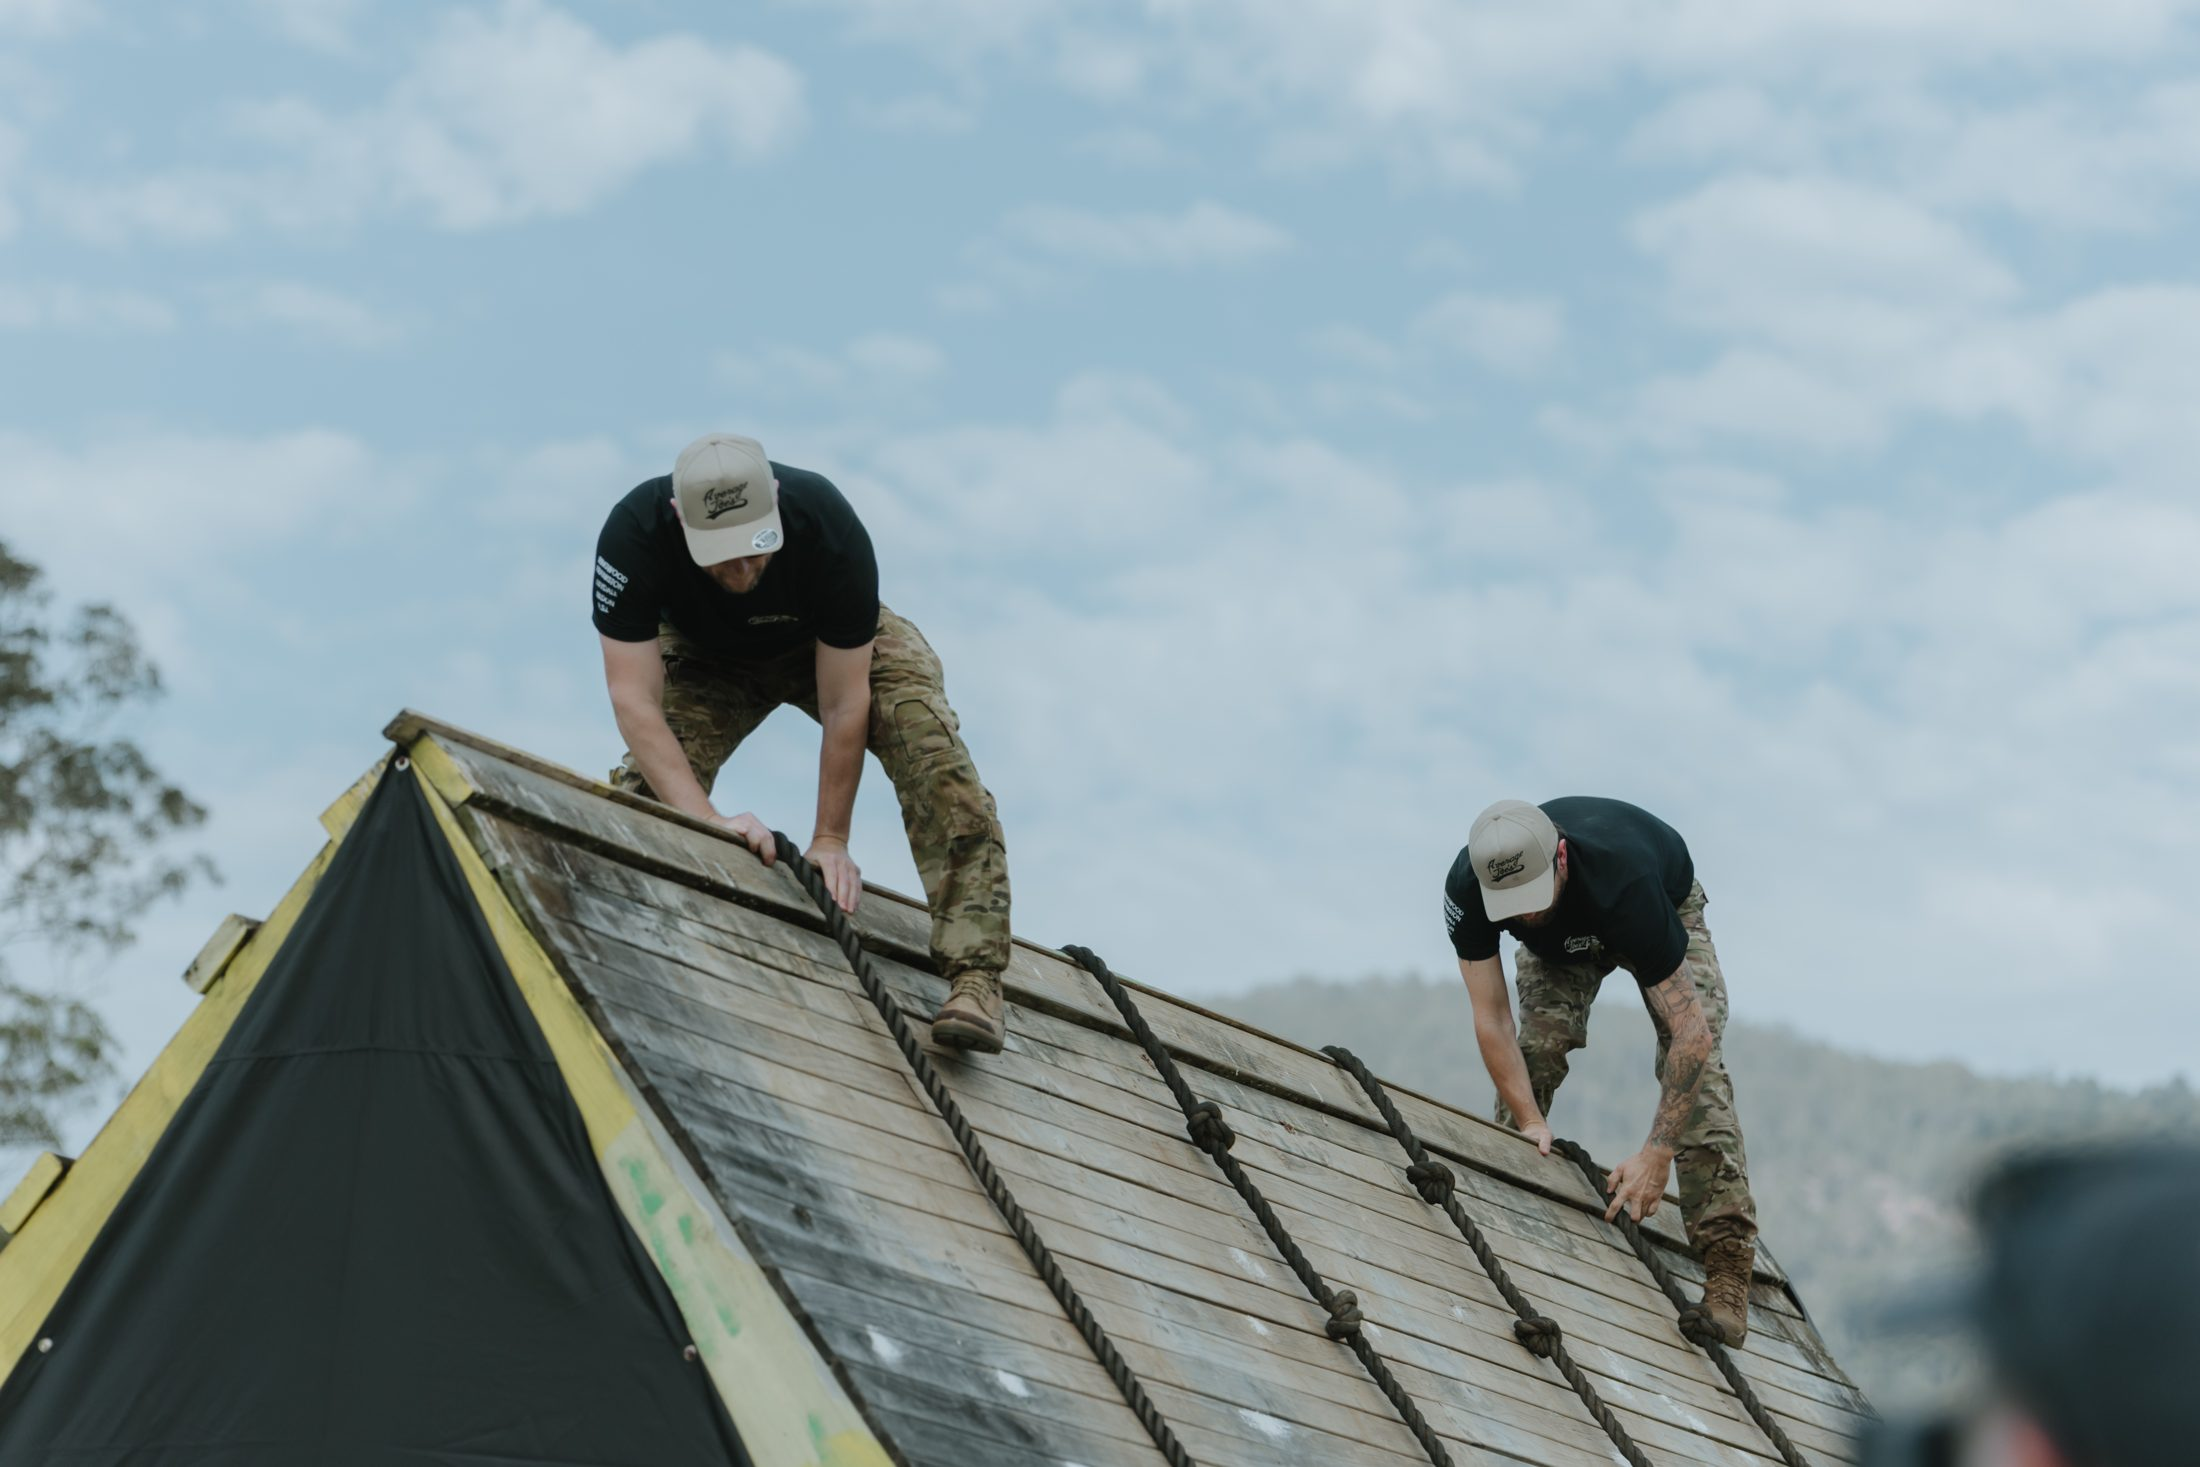
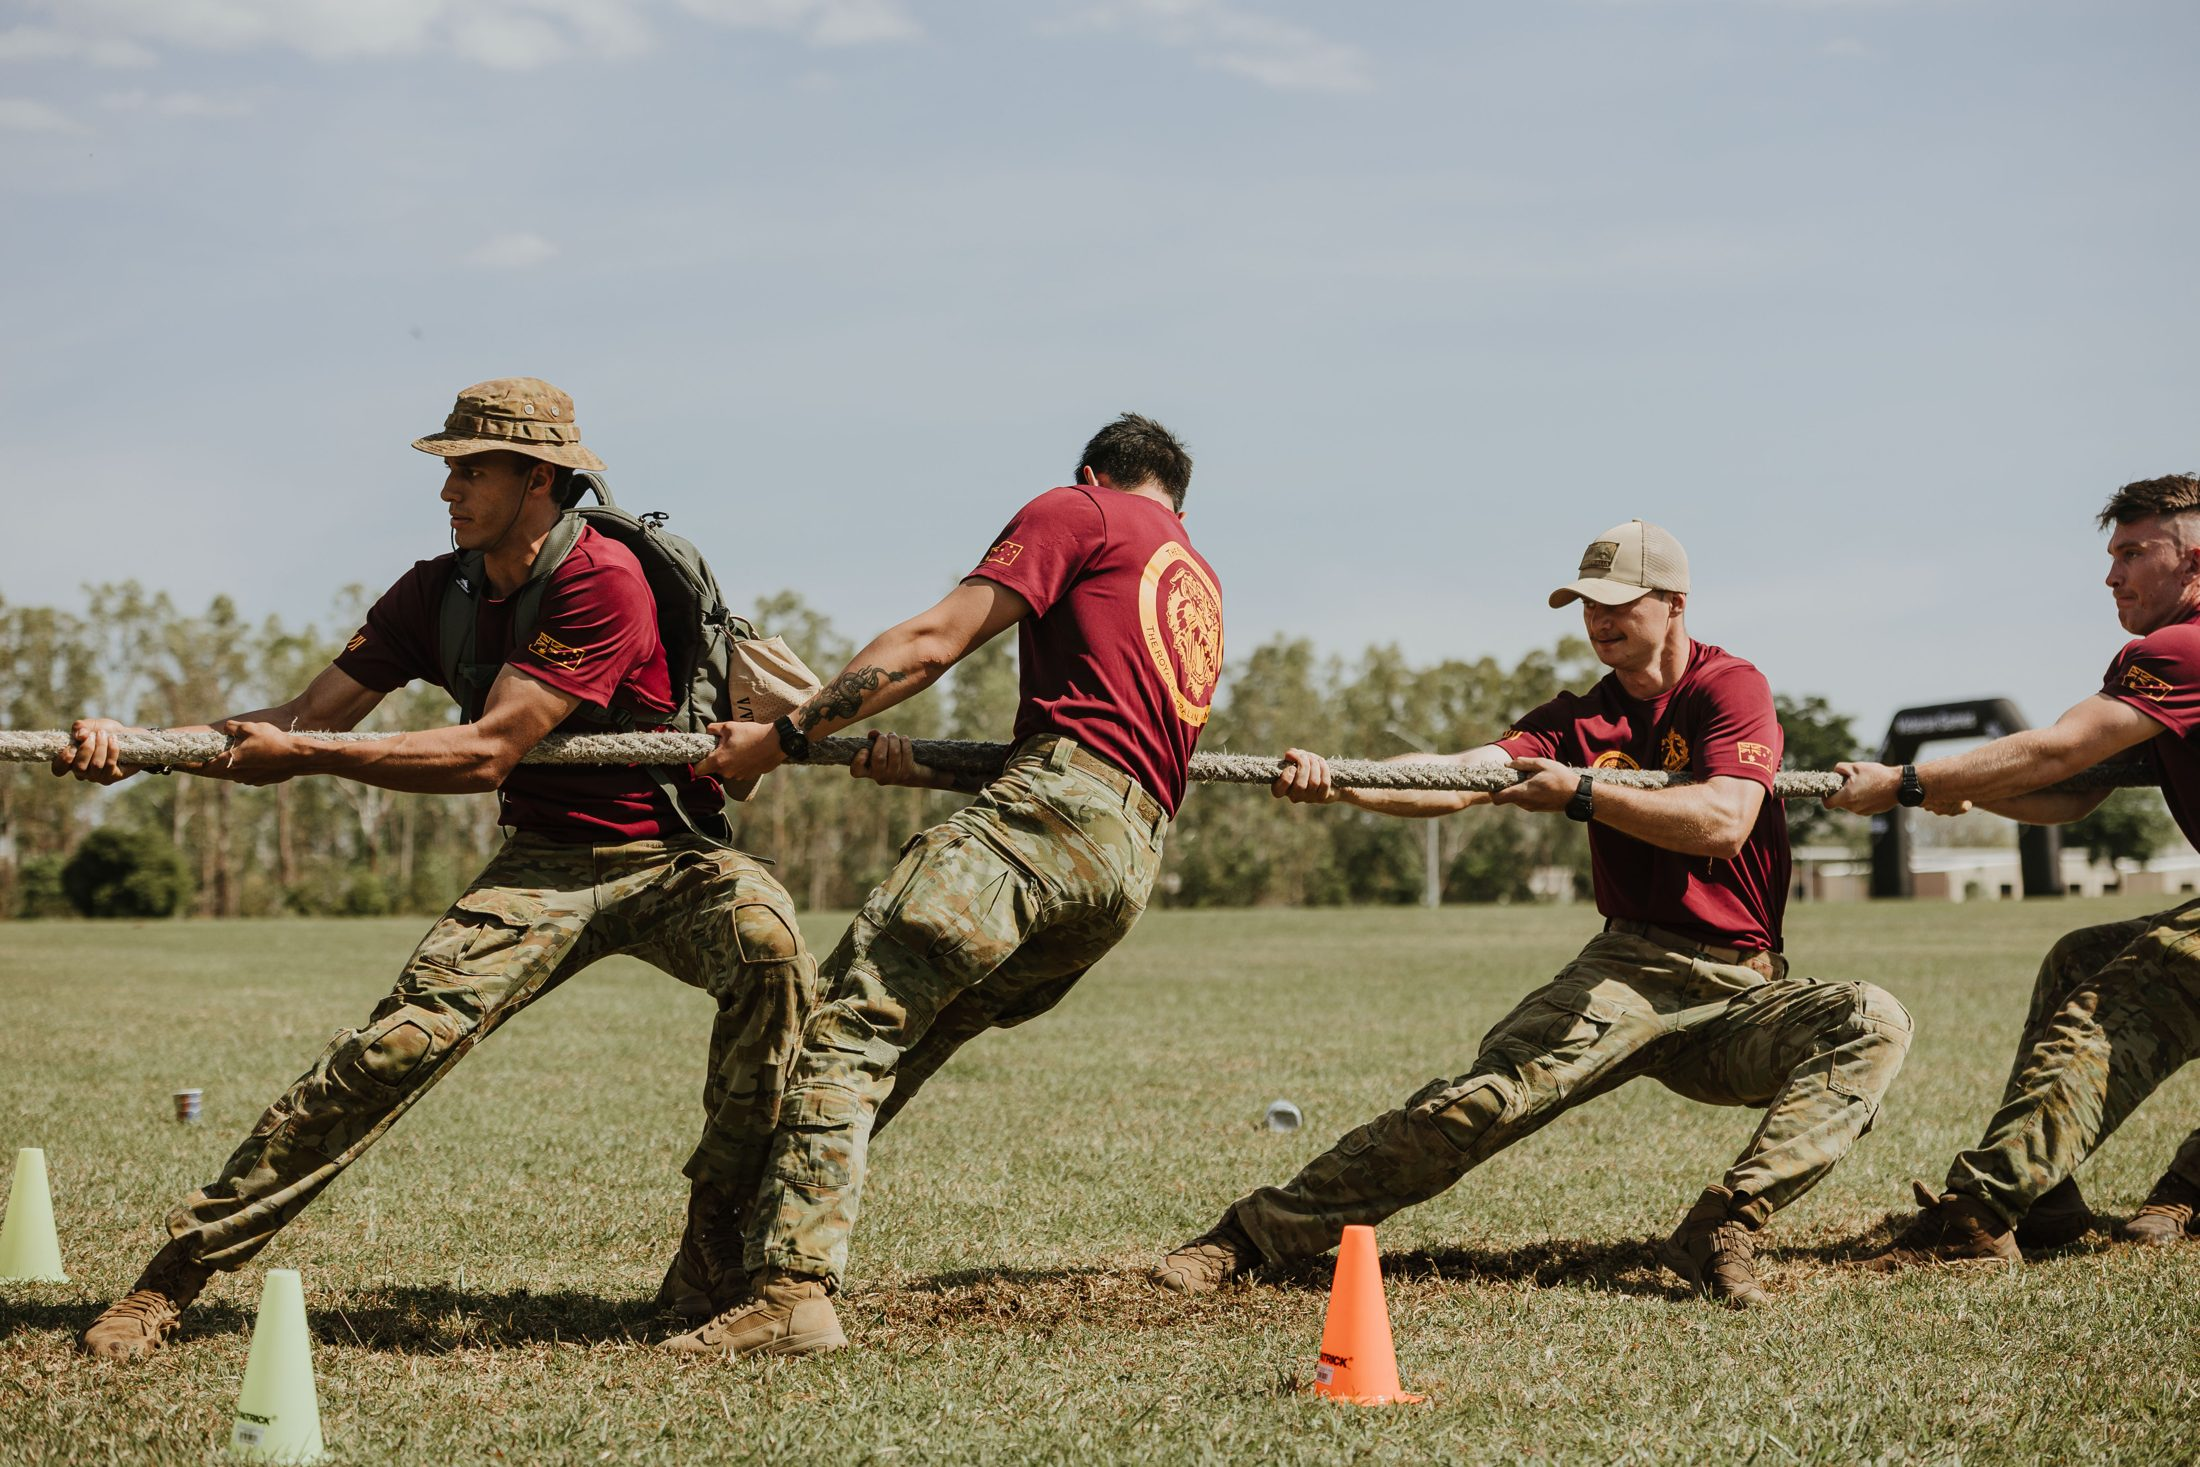
push 6

diff --git a/design/01-home.html b/design/01-home.html
@@ -99,16 +99,7 @@ SWAP LIST (remote → local when supplied)
     </div>
     <div class="rail">
       <article class="card">
-        <img class="card-img" src="https://veterangames.com/wp-content/uploads/2026/02/LitlCreative-VeteranGames-Day2-854-1-1024x683.jpg" alt="Manly Beach Heats">
-        <div class="card-bd">
-          <span class="badge">Open to the public</span>
-          <h3>Manly Beach Heats</h3>
-          <p class="meta">August 15 & 16 · Manly Beach NSW</p>
-          <a class="btn btn-gold btn-sm" href="11-event-info.html">Event Info</a>
-        </div>
-      </article>
-      <article class="card">
-        <img class="card-img" src="../assets/img/events/darwin.jpg" alt="Darwin Heats">
+        <img class="card-img" src="https://veterangames.com/wp-content/uploads/2026/02/LitlCreative_VeteranGamesDarwin-791-2-1024x683.jpg" alt="Darwin Heats">
         <div class="card-bd">
           <h3>Darwin Heats</h3>
           <p class="meta">September 18 · Darwin NT</p>
@@ -143,7 +134,7 @@ SWAP LIST (remote → local when supplied)
       <span class="kicker">Why We Exist</span>
       <h2>Built From Service.<br><span class="gold">Backed By Purpose.</span></h2>
       <div class="rule"></div>
-      <p>The Veteran Games was built by Veterans who know what it takes and what it costs. Hear why we started, what the Games have already changed and where you fit in.</p>
+      <p>The Veteran Games was built by Veterans who know what it takes and what it costs. Hear why we started, what the Veteran Games has already changed and where you fit in.</p>
       <p style="margin-top:14px"><a class="btn btn-gold" href="04-our-purpose.html">Our Purpose</a></p>
     </div>
   </div>
@@ -189,7 +180,7 @@ SWAP LIST (remote → local when supplied)
 <section class="sec sec-light">
   <div class="wrap">
     <div class="sec-head">
-      <div><span class="kicker">Why The Games Matter</span>
+      <div><span class="kicker">Why The Veteran Games Matter</span>
       <h2>More Than A Competition</h2>
       <p style="margin-top:16px;max-width:720px">The Veteran Games is a proactive health initiative addressing key findings from the Royal Commission into Defence and Veteran Suicide. Connection, purpose and identity, delivered through competition.</p></div>
     </div>
@@ -211,8 +202,8 @@ SWAP LIST (remote → local when supplied)
   <div class="wrap cta-in">
     <div style="max-width:600px">
       <span class="kicker">Show Your Support</span>
-      <h2>Back The Games.<br>Back Our Veterans.</h2>
-      <p style="margin-top:16px">Every dollar keeps a Veteran on the start line. Donations are tax deductible and merch tells the country you stand with us.</p>
+      <h2>Back The Veteran Games.<br>Back Our Veterans.</h2>
+      <p style="margin-top:16px">Every dollar strengthens the mission: connection, purpose and better health outcomes for Australian Veterans. Donations are tax deductible and merch tells the country you stand with us.</p>
       <div class="btn-row" style="margin-top:26px">
         <a class="btn btn-gold" href="07-donate.html">Donate To The Cause</a>
         <a class="btn btn-line" href="09-shop.html">Shop Merch</a>
@@ -240,7 +231,7 @@ SWAP LIST (remote → local when supplied)
       </article>
       <article class="card">
         <img class="card-img" src="https://veterangames.com/wp-content/uploads/2026/07/team-wall.jpg" alt="Training tips">
-        <div class="card-bd"><span class="badge">Resources / Tips</span><h4>Ten weeks out: how to train for the Games</h4><p class="meta">Training guide · 2026</p><a class="btn btn-line btn-sm" href="08-stories-stats-resources.html">Read More</a></div>
+        <div class="card-bd"><span class="badge">Resources / Tips</span><h4>Ten weeks out: how to train for the Veteran Games</h4><p class="meta">Training guide · 2026</p><a class="btn btn-line btn-sm" href="08-stories-stats-resources.html">Read More</a></div>
       </article>
     </div>
   </div>

diff --git a/design/02-find-my-event.html b/design/02-find-my-event.html
@@ -53,33 +53,18 @@ SWAP LIST (remote → local when supplied)
 
     <!-- [Slipstream] Filter bar: TEC events bar (date, venue) + TRX select filters. Static UI in prototype -->
     <div class="filter" id="spectate">
-      <div><label>Date range</label><br><select><option>All 2026</option><option>July</option><option>August</option><option>September</option><option>October</option></select></div>
-      <div><label>Location</label><br><select><option>All locations</option><option>QLD</option><option>NSW</option><option>NT</option><option>United Kingdom</option></select></div>
+      <div><label>Date range</label><br><select><option>All 2026</option><option>July</option><option>September</option><option>October</option></select></div>
+      <div><label>Location</label><br><select><option>All locations</option><option>QLD</option><option>NT</option><option>United Kingdom</option></select></div>
       <div style="flex:1"><label>Search</label><br><input type="text" placeholder="Search events"></div>
     </div>
 
     <!-- [Slipstream] TEC events list view · one row per tribe_events post · CTA column = approved custom arrangement -->
     <div class="ev-row">
-      <div class="ev-date"><span>Aug</span><b class="range">15 & 16</b><span>Sat & Sun</span></div>
-      <div>
-        <span class="badge">Open to the public</span>
-        <h3 style="margin:10px 0 6px">Manly Beach Heats</h3>
-        <p class="meta">Manly Beach, Sydney NSW · Veterans and public divisions</p>
-        <p style="margin-top:8px">The Games hit Sydney's Northern Beaches. Sand, surf and a course that shows no mercy.</p>
-      </div>
-      <div class="ev-cta">
-        <a class="btn btn-gold btn-sm" href="https://veterangames.com/manly-2026/" target="_blank" rel="noopener">Register Team</a>
-        <a class="btn btn-line btn-sm" href="https://veterangames.com/manly-2026/" target="_blank" rel="noopener">Spectate Free</a>
-        <a class="btn btn-white btn-sm" href="11-event-info.html">Event Info</a>
-      </div>
-    </div>
-
-    <div class="ev-row">
       <div class="ev-date"><span>Sep</span><b>18</b><span>Friday</span></div>
       <div>
         <h3 style="margin:10px 0 6px">Darwin Heats</h3>
         <p class="meta">Darwin NT · Current and former serving personnel</p>
-        <p style="margin-top:8px">The Games return to the Top End. Bring your unit, your mates and your best time.</p>
+        <p style="margin-top:8px">The Veteran Games returns to the Top End. Bring your unit, your mates and your best time.</p>
       </div>
       <div class="ev-cta">
         <a class="btn btn-gold btn-sm" href="https://veterangames.com/darwin-2026/" target="_blank" rel="noopener">Register Team</a>

diff --git a/design/11-event-info.html b/design/11-event-info.html
@@ -210,7 +210,7 @@ SWAP LIST (remote → local when supplied)
 <section class="sec sec-light">
   <div class="wrap">
     <span class="kicker">The Story So Far</span>
-    <h2 style="margin-bottom:44px">Past Years At The Games</h2>
+    <h2 style="margin-bottom:44px">Past Years Of The Veteran Games</h2>
     <div class="grid g3">
       <div>
         <div class="vid"><iframe src="https://www.youtube.com/embed/pfis4yBKGpU" title="2025 Highlights" allowfullscreen loading="lazy"></iframe></div>
@@ -271,11 +271,11 @@ SWAP LIST (remote → local when supplied)
     </div>
     <div class="grid g3">
       <article class="card">
-        <img class="card-img" src="https://veterangames.com/wp-content/uploads/2026/02/LitlCreative-VeteranGames-Day2-854-1-1024x683.jpg" alt="Manly Beach Heats">
-        <div class="card-bd"><h4>Manly Beach Heats</h4><p class="meta">August 15 & 16 · NSW</p><a class="btn btn-line btn-sm" href="02-find-my-event.html">Event Info</a></div>
+        <img class="card-img" src="../assets/img/events/gold-coast.jpg" alt="Gold Coast Heats">
+        <div class="card-bd"><span class="badge">Completed</span><h4>Gold Coast Heats</h4><p class="meta">June 20 & 21 · QLD</p><a class="btn btn-line btn-sm" href="02-find-my-event.html">Event Recap</a></div>
       </article>
       <article class="card">
-        <img class="card-img" src="../assets/img/events/darwin.jpg" alt="Darwin Heats">
+        <img class="card-img" src="https://veterangames.com/wp-content/uploads/2026/02/LitlCreative_VeteranGamesDarwin-791-2-1024x683.jpg" alt="Darwin Heats">
         <div class="card-bd"><h4>Darwin Heats</h4><p class="meta">September 18 · NT</p><a class="btn btn-line btn-sm" href="02-find-my-event.html">Event Info</a></div>
       </article>
       <article class="card">

diff --git a/design/03-the-experience.html b/design/03-the-experience.html
@@ -149,11 +149,11 @@ SWAP LIST (remote → local when supplied)
     </div>
     <div class="grid g3">
       <article class="card">
-        <img class="card-img" src="https://veterangames.com/wp-content/uploads/2026/02/LitlCreative-VeteranGames-Day2-854-1-1024x683.jpg" alt="Manly Beach Heats">
-        <div class="card-bd"><h4>Manly Beach Heats</h4><p class="meta">August 15 & 16 · NSW</p><a class="btn btn-line btn-sm" href="11-event-info.html">Event Info</a></div>
+        <img class="card-img" src="https://veterangames.com/wp-content/uploads/2026/02/KRUS0047_websize-1024x683.jpg" alt="UK Expedition">
+        <div class="card-bd"><h4>UK Expedition</h4><p class="meta">July 25 · United Kingdom</p><a class="btn btn-line btn-sm" href="https://veterans-can.com/veteran-games-uk" target="_blank" rel="noopener">More Info</a></div>
       </article>
       <article class="card">
-        <img class="card-img" src="../assets/img/events/darwin.jpg" alt="Darwin Heats">
+        <img class="card-img" src="https://veterangames.com/wp-content/uploads/2026/02/LitlCreative_VeteranGamesDarwin-791-2-1024x683.jpg" alt="Darwin Heats">
         <div class="card-bd"><h4>Darwin Heats</h4><p class="meta">September 18 · NT</p><a class="btn btn-line btn-sm" href="11-event-info.html">Event Info</a></div>
       </article>
       <article class="card">

diff --git a/design/06-become-a-sponsor.html b/design/06-become-a-sponsor.html
@@ -53,12 +53,12 @@ SWAP LIST (remote → local when supplied)
   <div class="wrap split">
     <div>
       <span class="kicker">Take Up The Challenge</span>
-      <h2>Why Partner With The Games</h2>
+      <h2>Why Partner With The Veteran Games</h2>
       <div class="rule"></div>
       <p>Sponsorships are the primary funding support for the Veteran Games. For this reason, we greatly value the support of our sponsors in making the Veteran Games happen and ultimately, in supporting our Veteran community.</p>
       <p style="margin-top:14px">When considering potential sponsors, we look for those who are aligned with our values, as outlined within our Ethical Charter Framework.</p>
     </div>
-    <img src="../assets/img/general/sponsor-team.jpg" alt="Sponsor team celebrating at the Games" style="border:1px solid var(--vg-line)">
+    <img src="../assets/img/general/sponsor-team.jpg" alt="Sponsor team celebrating at the Veteran Games" style="border:1px solid var(--vg-line)">
   </div>
 </section>
 
@@ -107,7 +107,7 @@ SWAP LIST (remote → local when supplied)
       <div class="stat"><svg class="vicon" viewBox="0 0 24 24" width="36" height="36" fill="none" stroke="#BFAE7A" stroke-width="1.8" stroke-linecap="round" stroke-linejoin="round" aria-hidden="true"><circle cx="12" cy="12" r="8.5"/><circle cx="12" cy="12" r="4.2"/><circle cx="12" cy="12" r="0.6"/></svg><b style="font-size:24px;text-transform:uppercase">Purpose</b><p class="meta" style="margin-top:10px">The motivation to reach our full potential beyond service.</p></div>
       <div class="stat"><svg class="vicon" viewBox="0 0 24 24" width="36" height="36" fill="none" stroke="#BFAE7A" stroke-width="1.8" stroke-linecap="round" stroke-linejoin="round" aria-hidden="true"><circle cx="9" cy="8" r="3.2"/><path d="M3.2 19.5c0-3.2 2.6-5.3 5.8-5.3s5.8 2.1 5.8 5.3"/><circle cx="17" cy="9" r="2.5"/><path d="M16.4 14.4c2.6.2 4.4 2 4.4 4.6"/></svg><b style="font-size:24px;text-transform:uppercase">Community</b><p class="meta" style="margin-top:10px">Connection first. No Veteran stands alone.</p></div>
       <div class="stat"><svg class="vicon" viewBox="0 0 24 24" width="36" height="36" fill="none" stroke="#BFAE7A" stroke-width="1.8" stroke-linecap="round" stroke-linejoin="round" aria-hidden="true"><path d="M12 3l7.2 2.8v5.1c0 4.6-3 7.7-7.2 9.6-4.2-1.9-7.2-5-7.2-9.6V5.8z"/><path d="M8.8 12l2.2 2.2 4.2-4.4"/></svg><b style="font-size:24px;text-transform:uppercase">Identity</b><p class="meta" style="margin-top:10px">Celebrating the best of our military background.</p></div>
-      <div class="stat"><svg class="vicon" viewBox="0 0 24 24" width="36" height="36" fill="none" stroke="#BFAE7A" stroke-width="1.8" stroke-linecap="round" stroke-linejoin="round" aria-hidden="true"><circle cx="9" cy="12" r="4.6"/><circle cx="15" cy="12" r="4.6"/></svg><b style="font-size:24px;text-transform:uppercase">Teamwork</b><p class="meta" style="margin-top:10px">Everything at the Games is won together.</p></div>
+      <div class="stat"><svg class="vicon" viewBox="0 0 24 24" width="36" height="36" fill="none" stroke="#BFAE7A" stroke-width="1.8" stroke-linecap="round" stroke-linejoin="round" aria-hidden="true"><circle cx="9" cy="12" r="4.6"/><circle cx="15" cy="12" r="4.6"/></svg><b style="font-size:24px;text-transform:uppercase">Teamwork</b><p class="meta" style="margin-top:10px">Everything at the Veteran Games is won together.</p></div>
       <div class="stat"><svg class="vicon" viewBox="0 0 24 24" width="36" height="36" fill="none" stroke="#BFAE7A" stroke-width="1.8" stroke-linecap="round" stroke-linejoin="round" aria-hidden="true"><path d="M12 3.2l2.7 5.5 6 .9-4.3 4.2 1 6-5.4-2.9-5.4 2.9 1-6L3.3 9.6l6-.9z"/></svg><b style="font-size:24px;text-transform:uppercase">Excellence</b><p class="meta" style="margin-top:10px">Showcasing Veteran capability at its peak.</p></div>
       <div class="stat"><svg class="vicon" viewBox="0 0 24 24" width="36" height="36" fill="none" stroke="#BFAE7A" stroke-width="1.8" stroke-linecap="round" stroke-linejoin="round" aria-hidden="true"><circle cx="12" cy="15" r="5.2"/><path d="M9.4 10.4L6.4 3.5h4l1.6 3.6 1.6-3.6h4l-3 6.9"/></svg><b style="font-size:24px;text-transform:uppercase">Service</b><p class="meta" style="margin-top:10px">Giving back to those who gave everything.</p></div>
     </div>

diff --git a/design/07-donate.html b/design/07-donate.html
@@ -63,7 +63,7 @@ SWAP LIST (remote → local when supplied)
     <div>
       <span class="kicker">Why Donate</span>
       <h2>Your Support Changes Outcomes</h2>
-      <p style="max-width:760px;margin-top:16px">More than 1,500 Australian Veterans have been lost to suicide in two decades. The Veteran Games exists to change that trajectory through connection, purpose and fitness. Your donation keeps entry costs low, teams on the start line and the movement growing.</p>
+      <p style="max-width:760px;margin-top:16px">More than 1,500 Australian Veterans have been lost to suicide in two decades. The Veteran Games exists to change that trajectory through connection, purpose and fitness. Your donation powers the events, the community around them and the movement they are building.</p>
     </div>
     <div class="stats" style="margin-top:48px">
       <div class="stat"><b>1,500+</b><span>Veterans lost to suicide in two decades</span></div>
@@ -115,7 +115,7 @@ SWAP LIST (remote → local when supplied)
   <div class="wrap cta-in">
     <div style="max-width:640px">
       <span class="kicker">Ready When You Are</span>
-      <h2>Every Dollar Puts A Veteran<br>On The Start Line</h2>
+      <h2>Every Dollar Drives<br>The Mission Forward</h2>
       <div class="btn-row" style="margin-top:26px">
         <a class="btn btn-gold" href="#donorbox-top">Donate Now</a>
         <a class="btn btn-line" href="06-become-a-sponsor.html">Or Become a Sponsor</a>

diff --git a/design/08-stories-stats-resources.html b/design/08-stories-stats-resources.html
@@ -73,7 +73,7 @@ SWAP LIST (remote → local when supplied)
       </article>
       <article class="card" data-cat="news">
         <img class="card-img" src="https://veterangames.com/wp-content/uploads/2026/02/KRUS0047_websize-1024x683.jpg" alt="UK expansion">
-        <div class="card-bd"><span class="badge">News / Stories</span><h4>The Games go global: UK expedition announced</h4><p class="meta">Veteran Games · 2026</p><a class="btn btn-line btn-sm" href="#">Read More</a></div>
+        <div class="card-bd"><span class="badge">News / Stories</span><h4>Veteran Games goes global: UK expedition announced</h4><p class="meta">Veteran Games · 2026</p><a class="btn btn-line btn-sm" href="#">Read More</a></div>
       </article>
       <article class="card" data-cat="stats">
         <img class="card-img" src="https://veterangames.com/wp-content/uploads/2023/10/Veteran-Games-2023-Fit-test-2.jpeg" alt="Mental health data">
@@ -89,7 +89,7 @@ SWAP LIST (remote → local when supplied)
       </article>
       <article class="card" data-cat="resources">
         <img class="card-img" src="https://veterangames.com/wp-content/uploads/2026/07/team-wall.jpg" alt="Training plan">
-        <div class="card-bd"><span class="badge">Resources / Tips</span><h4>Ten weeks out: how to train for the Games</h4><p class="meta">Training guide · 2026</p><a class="btn btn-line btn-sm" href="#">Read More</a></div>
+        <div class="card-bd"><span class="badge">Resources / Tips</span><h4>Ten weeks out: how to train for the Veteran Games</h4><p class="meta">Training guide · 2026</p><a class="btn btn-line btn-sm" href="#">Read More</a></div>
       </article>
       <article class="card" data-cat="resources">
         <img class="card-img" src="https://veterangames.com/wp-content/uploads/2023/10/Veteran-Games-2023-Med-good-5.jpeg" alt="First aid basics">

diff --git a/design/04-our-purpose.html b/design/04-our-purpose.html
@@ -107,7 +107,7 @@ SWAP LIST (remote → local when supplied)
       <div class="tl-item">
         <p class="tl-year">2024</p>
         <h3>Momentum</h3>
-        <p style="max-width:640px;margin:12px 0 20px">The Games returned to the Numinbah Valley for year two. 10 teams, 100 Veterans competing. Champion Team: 2 SECFOR SQN, taking home the $10,000 cash prize and the name on the shield.</p>
+        <p style="max-width:640px;margin:12px 0 20px">The Veteran Games returned to the Numinbah Valley for year two. 10 teams, 100 Veterans competing. Champion Team: 2 SECFOR SQN, taking home the $10,000 cash prize and the name on the shield.</p>
         <div class="grid g2">
           <div class="vid"><iframe src="https://www.youtube.com/embed/YBx2M-kbhWg" title="2024 Documentary" allowfullscreen loading="lazy"></iframe></div>
           <img src="https://veterangames.com/wp-content/uploads/2024/10/KRUS2009-2-1024x683.jpg" alt="2024 Veteran Games" style="border:1px solid var(--vg-line);object-fit:cover;height:100%">

diff --git a/design/09-shop.html b/design/09-shop.html
@@ -44,7 +44,7 @@ SWAP LIST (remote → local when supplied)
   <div class="wrap">
     <span class="kicker">Official Merch</span>
     <h1>Our <span class="gold">Shop</span></h1>
-    <p class="hero-sub">Wear it loud. Every order backs the Games and the Veterans who compete.</p>
+    <p class="hero-sub">Wear it loud. Every order backs the Veteran Games and the Veterans who compete.</p>
   </div>
 </section>
 